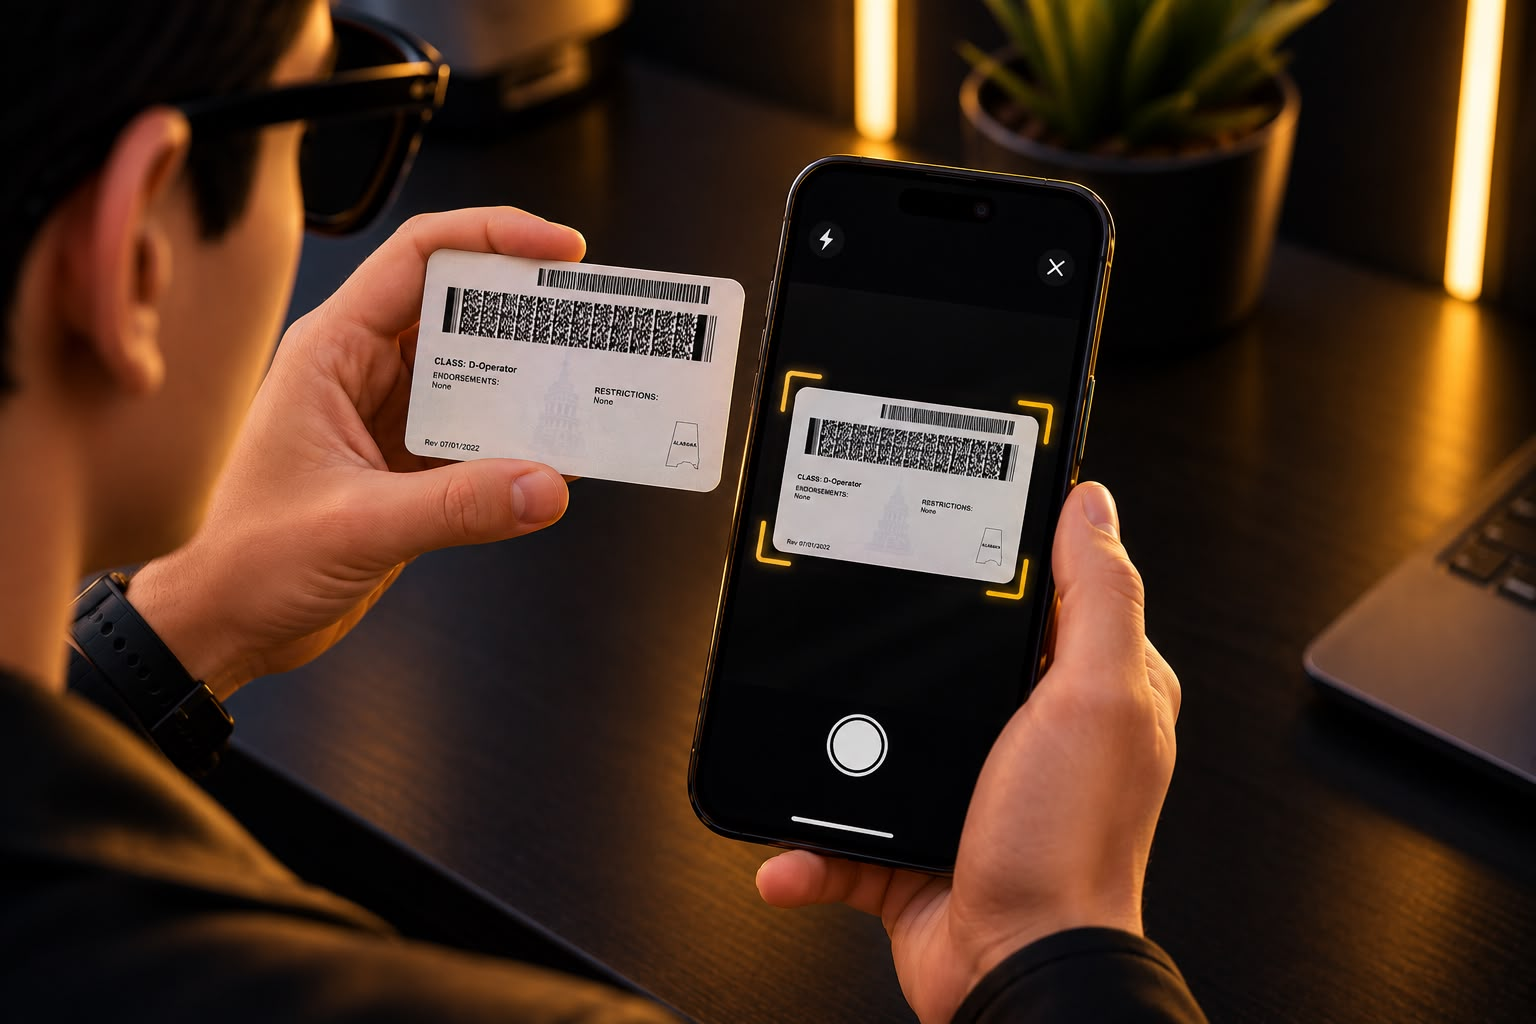
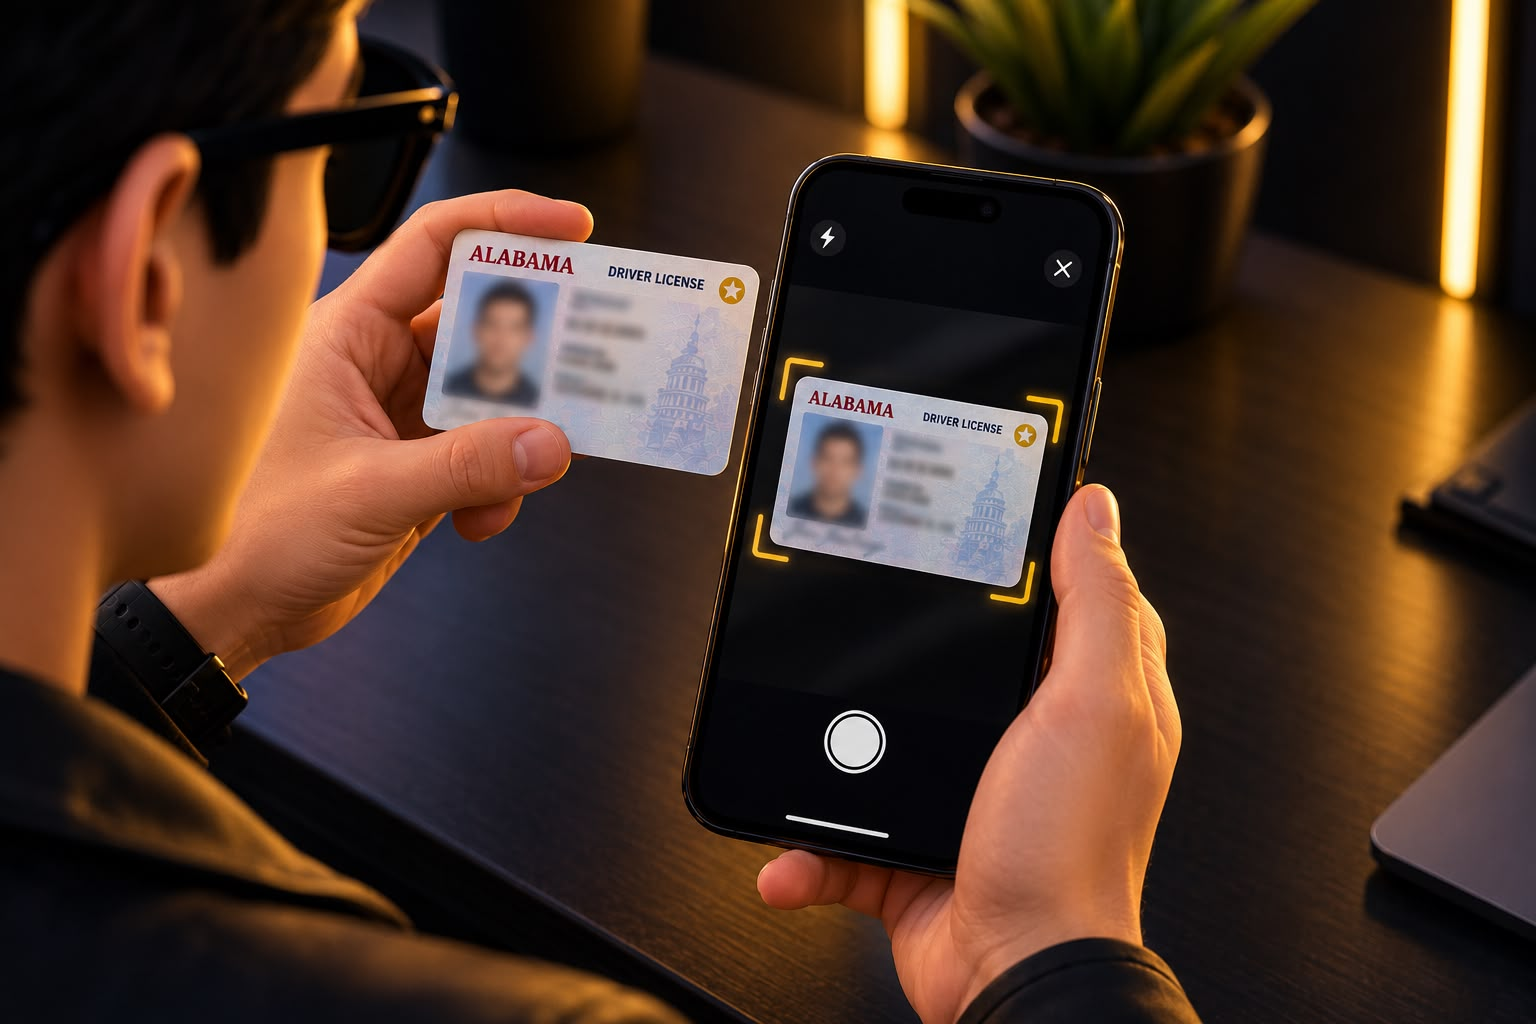
fix(onboarding): guias de licencia con imagenes correctas (frente AL/FL con foto, dorso barcode) y foto edge-to-edge en la pagina guia

diff --git a/lib/widgets/doc_guidelines_view.dart b/lib/widgets/doc_guidelines_view.dart
@@ -62,13 +62,14 @@ class DocGuidelinesView extends StatelessWidget {
       return Center(child: DocScanIllustration(docType: docType, height: 190));
     }
     // Full-width photo of the real license; the vector illustration stays
-    // as the fallback if the asset ever fails to load.
-    return ClipRRect(
-      borderRadius: BorderRadius.circular(18),
+    // as the fallback if the asset ever fails to load. The negative margin
+    // breaks the page's 24px padding so the photo runs edge to edge.
+    return Padding(
+      padding: const EdgeInsets.symmetric(horizontal: -24),
       child: Image.asset(
         asset,
         width: double.infinity,
-        height: 190,
+        height: 210,
         fit: BoxFit.cover,
         errorBuilder: (_, __, ___) =>
             Center(child: DocScanIllustration(docType: docType, height: 190)),
